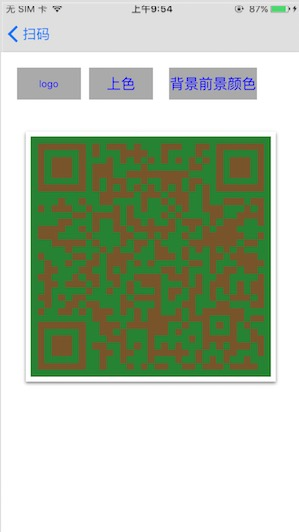
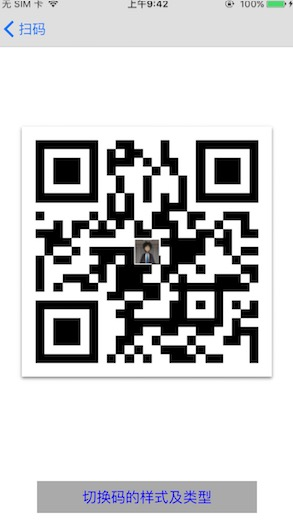
update my code

diff --git a/DemoTests/LBXScanDemo/MyQRViewController.m b/DemoTests/LBXScanDemo/MyQRViewController.m
@@ -11,7 +11,16 @@
 #import "LBXAlertAction.h"
 
 @interface MyQRViewController ()
-@property (nonatomic, strong) UIImageView* imgView;
+
+//二维码
+@property (nonatomic, strong) UIView *qrView;
+@property (nonatomic, strong) UIImageView* qrImgView;
+
+//条形码
+@property (nonatomic, strong) UIView *tView;
+@property (nonatomic, strong) UIImageView *tImgView;
+
+
 @end
 
 @implementation MyQRViewController
@@ -33,8 +42,8 @@
 {
     [super viewDidAppear:animated];
     
-    UIButton *btn1 = [[UIButton alloc]initWithFrame:CGRectMake(80, 20, 100, 40)];
-    [btn1 setTitle:@"创建新码" forState:UIControlStateNormal];
+    UIButton *btn1 = [[UIButton alloc]initWithFrame:CGRectMake(50, self.view.frame.size.height - 60, self.view.frame.size.width-100, 40)];
+    [btn1 setTitle:@"切换码的样式及类型" forState:UIControlStateNormal];
     [btn1 setTitleColor:[UIColor blueColor] forState:UIControlStateNormal];
     [btn1 addTarget:self action:@selector(newCodeChooose) forControlEvents:UIControlEventTouchUpInside];
     
@@ -43,6 +52,7 @@
     [self.view addSubview:btn1];
    
     
+    //二维码
     UIView *view = [[UIView alloc]initWithFrame:CGRectMake( (CGRectGetWidth(self.view.frame)-CGRectGetWidth(self.view.frame)*5/6)/2, 100, CGRectGetWidth(self.view.frame)*5/6, CGRectGetWidth(self.view.frame)*5/6)];
     [self.view addSubview:view];
     view.backgroundColor = [UIColor whiteColor];
@@ -52,10 +62,26 @@
     view.layer.shadowOpacity = 0.5;
     
     
-    self.imgView = [[UIImageView alloc]init];
-    _imgView.bounds = CGRectMake(0, 0, CGRectGetWidth(view.frame)-12, CGRectGetWidth(view.frame)-12);
-    _imgView.center = CGPointMake(CGRectGetWidth(view.frame)/2, CGRectGetHeight(view.frame)/2);
-    [view addSubview:_imgView];
+    self.qrImgView = [[UIImageView alloc]init];
+    _qrImgView.bounds = CGRectMake(0, 0, CGRectGetWidth(view.frame)-12, CGRectGetWidth(view.frame)-12);
+    _qrImgView.center = CGPointMake(CGRectGetWidth(view.frame)/2, CGRectGetHeight(view.frame)/2);
+    [view addSubview:_qrImgView];
+    self.qrView = view;
+    
+    
+    //条形码
+    self.tView = [[UIView alloc]initWithFrame:CGRectMake( (CGRectGetWidth(self.view.frame)-CGRectGetWidth(self.view.frame)*5/6)/2,
+                                                         100,
+                                                         CGRectGetWidth(self.view.frame)*5/6,
+                                                         CGRectGetWidth(self.view.frame)*5/6*0.5)];
+    [self.view addSubview:_tView];
+  
+    
+    self.tImgView = [[UIImageView alloc]init];
+    _tImgView.bounds = CGRectMake(0, 0, CGRectGetWidth(_tView.frame)-12, CGRectGetHeight(_tView.frame)-12);
+    _tImgView.center = CGPointMake(CGRectGetWidth(_tView.frame)/2, CGRectGetHeight(_tView.frame)/2);
+    [_tView addSubview:_tImgView];
+    
   
     
     [self createQR1];
@@ -93,39 +119,55 @@
 
 - (void)createQR1
 {
-     UIImage *qrImg = [LBXScanWrapper createQRWithString:@"lbxia20091227@foxmail.com" size:_imgView.bounds.size];
+    _qrView.hidden = NO;
+    _tView.hidden = YES;
+    
+     UIImage *qrImg = [LBXScanWrapper createQRWithString:@"lbxia20091227@foxmail.com" size:_qrImgView.bounds.size];
     
     UIImage *logoImg = [UIImage imageNamed:@"logo.JPG"];
-    _imgView.image = [LBXScanWrapper addImageLogo:qrImg centerLogoImage:logoImg logoSize:CGSizeMake(30, 30)];
+    _qrImgView.image = [LBXScanWrapper addImageLogo:qrImg centerLogoImage:logoImg logoSize:CGSizeMake(30, 30)];
     
 }
 
 - (void)createQR2
 {
-    UIImage *image = [LBXScanWrapper createQRWithString:@"lbxia20091227@foxmail.com" size:_imgView.bounds.size];
+    _qrView.hidden = NO;
+    _tView.hidden = YES;
+    
+    UIImage *image = [LBXScanWrapper createQRWithString:@"lbxia20091227@foxmail.com" size:_qrImgView.bounds.size];
     //二维码上色
-    _imgView.image = [LBXScanWrapper imageBlackToTransparent:image withRed:255.0f andGreen:74.0f andBlue:89.0f];
+    _qrImgView.image = [LBXScanWrapper imageBlackToTransparent:image withRed:255.0f andGreen:74.0f andBlue:89.0f];
     
 }
 
 - (void)createQR3
 {
-    _imgView.image = [LBXScanWrapper createQRWithString:@"lbxia20091227@foxmail.com"
-                                                 QRSize:_imgView.bounds.size
-                                                QRColor:[UIColor colorWithRed:120./255. green:84./255. blue:40./255 alpha:1.0]
+    _qrView.hidden = NO;
+    _tView.hidden = YES;
+    
+    //生成的不好识别，自己去调好颜色应该就可以识别了
+    _qrImgView.image = [LBXScanWrapper createQRWithString:@"lbxia20091227@foxmail.com"
+                                                 QRSize:_qrImgView.bounds.size
+                                                QRColor:[UIColor colorWithRed:200./255. green:84./255. blue:40./255 alpha:1.0]
                                                 bkColor:[UIColor colorWithRed:41./255. green:130./255. blue:45./255. alpha:1.0]];
 }
 
 //商品条形码
 - (void)createCodeEAN13
 {
-    _imgView.image = [LBXScanWrapper createCodeWithString:@"6944551723107" size:_imgView.bounds.size CodeFomart:AVMetadataObjectTypeEAN13Code];
+    _qrView.hidden = YES;
+    _tView.hidden = NO;
+    
+    _tImgView.image = [LBXScanWrapper createCodeWithString:@"6944551723107" size:_qrImgView.bounds.size CodeFomart:AVMetadataObjectTypeEAN13Code];
 }
 
 - (void)createCode93
 {
+    _qrView.hidden = YES;
+    _tView.hidden = NO;
+    
     //支付宝付款码-条款码
-    _imgView.image = [LBXScanWrapper createCodeWithString:@"283657461695996598" size:_imgView.bounds.size CodeFomart:AVMetadataObjectTypeCode128Code];
+    _tImgView.image = [LBXScanWrapper createCodeWithString:@"283657461695996598" size:_qrImgView.bounds.size CodeFomart:AVMetadataObjectTypeCode128Code];
 }
 
 

diff --git a/README.md b/README.md
@@ -31,5 +31,6 @@ screenshots:
 ![image](https://github.com/MxABC/LBXScan/blob/master/ScreenShots/page7.png)
 ![image](https://github.com/MxABC/LBXScan/blob/master/ScreenShots/page8.png)
 ![image](https://github.com/MxABC/LBXScan/blob/master/ScreenShots/page9.png)
+![image](https://github.com/MxABC/LBXScan/blob/master/ScreenShots/page12.png)
 ![image](https://github.com/MxABC/LBXScan/blob/master/ScreenShots/page10.png)
 
